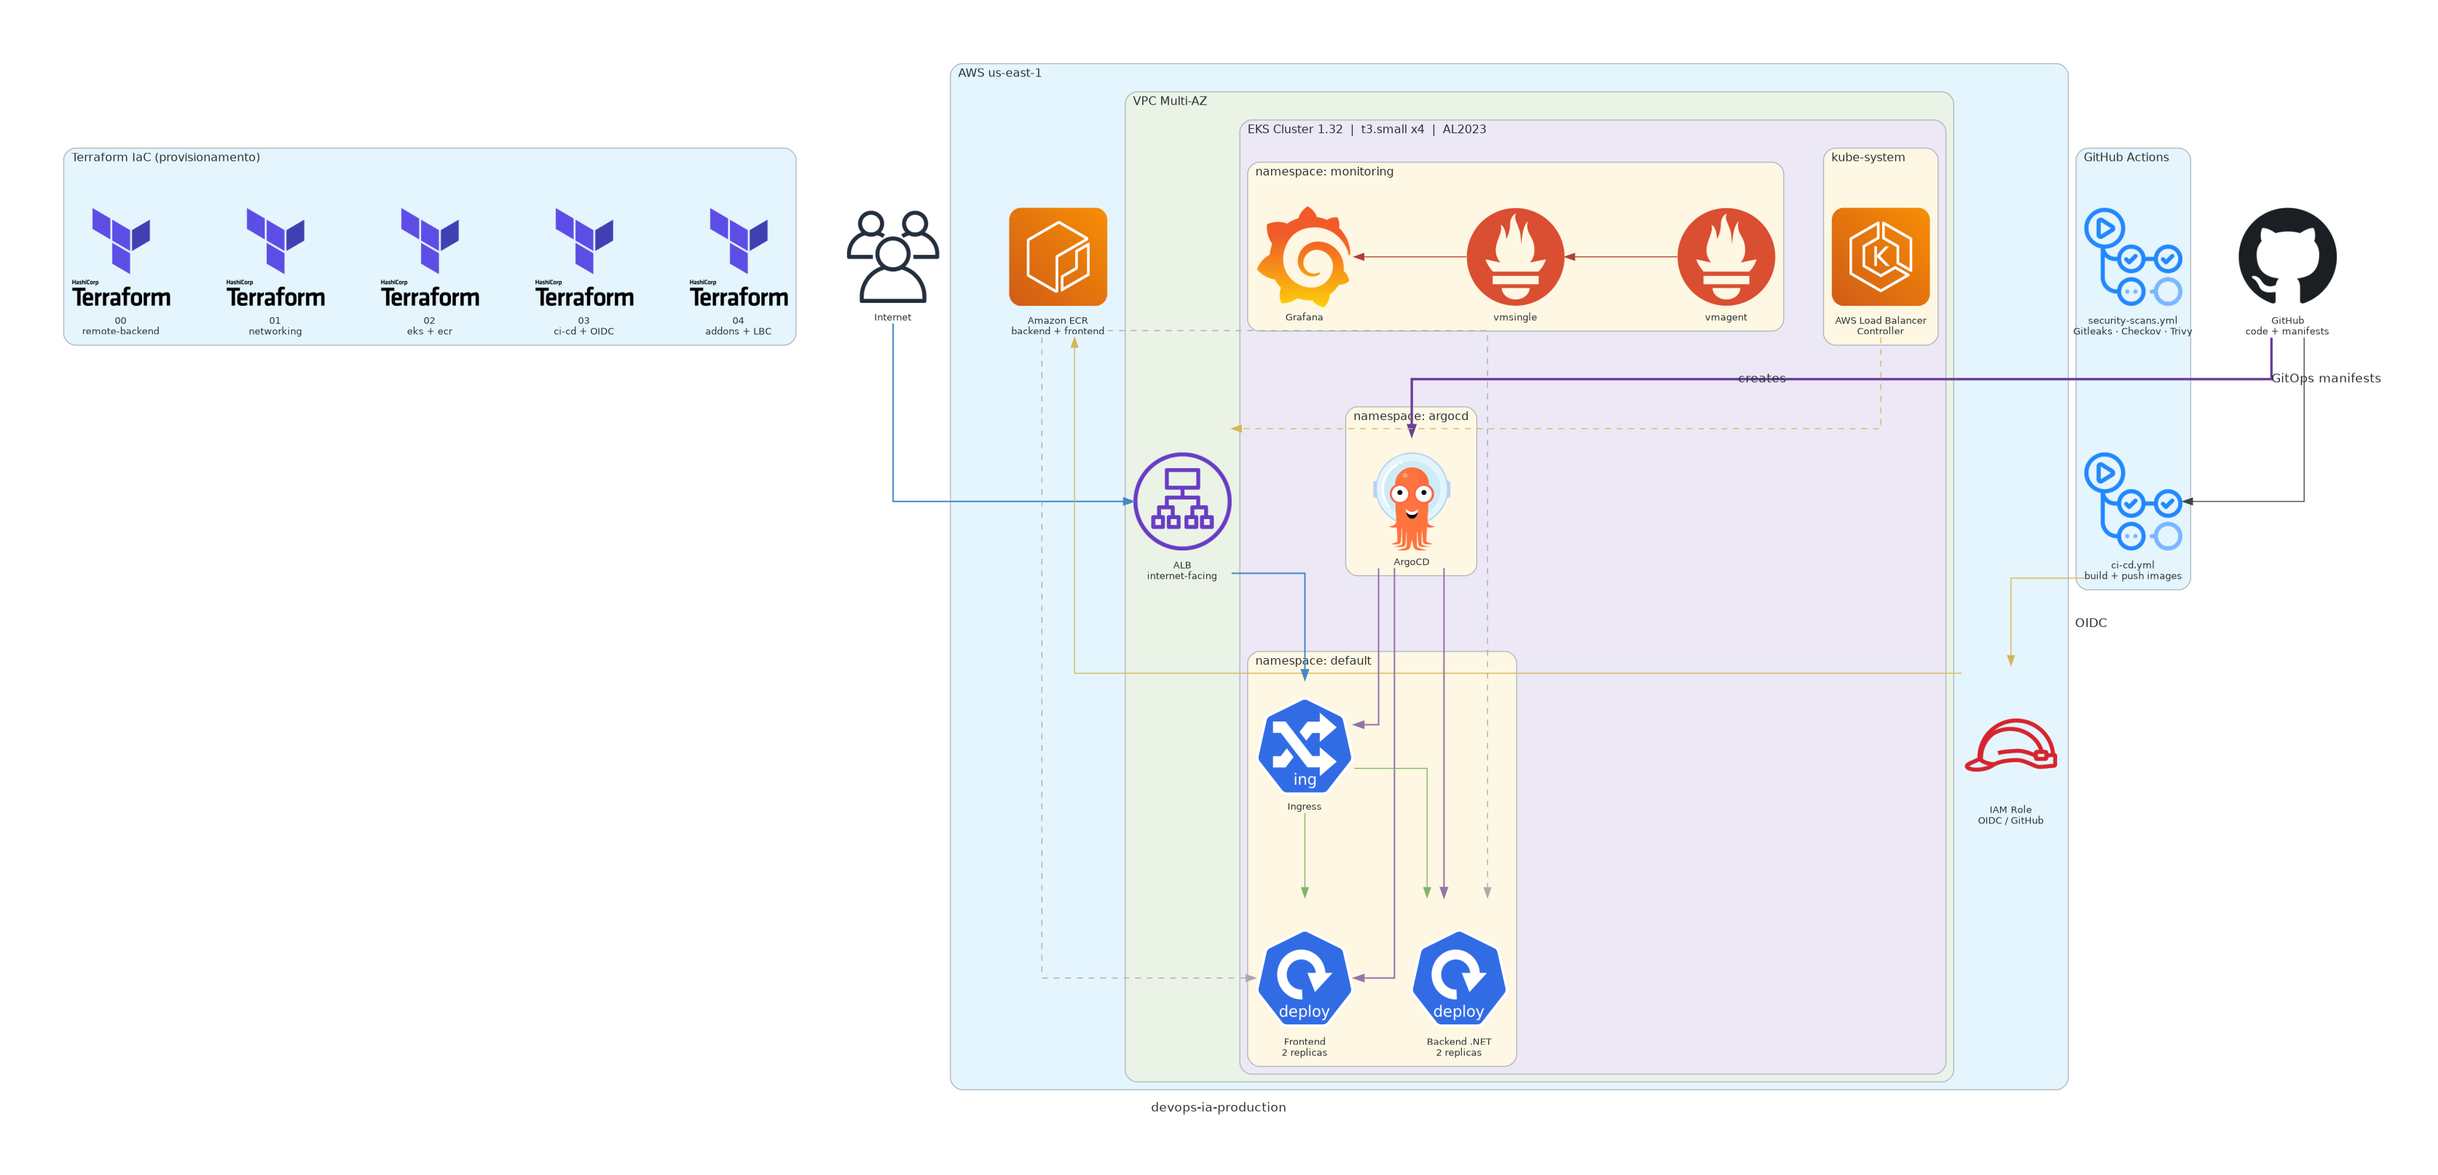
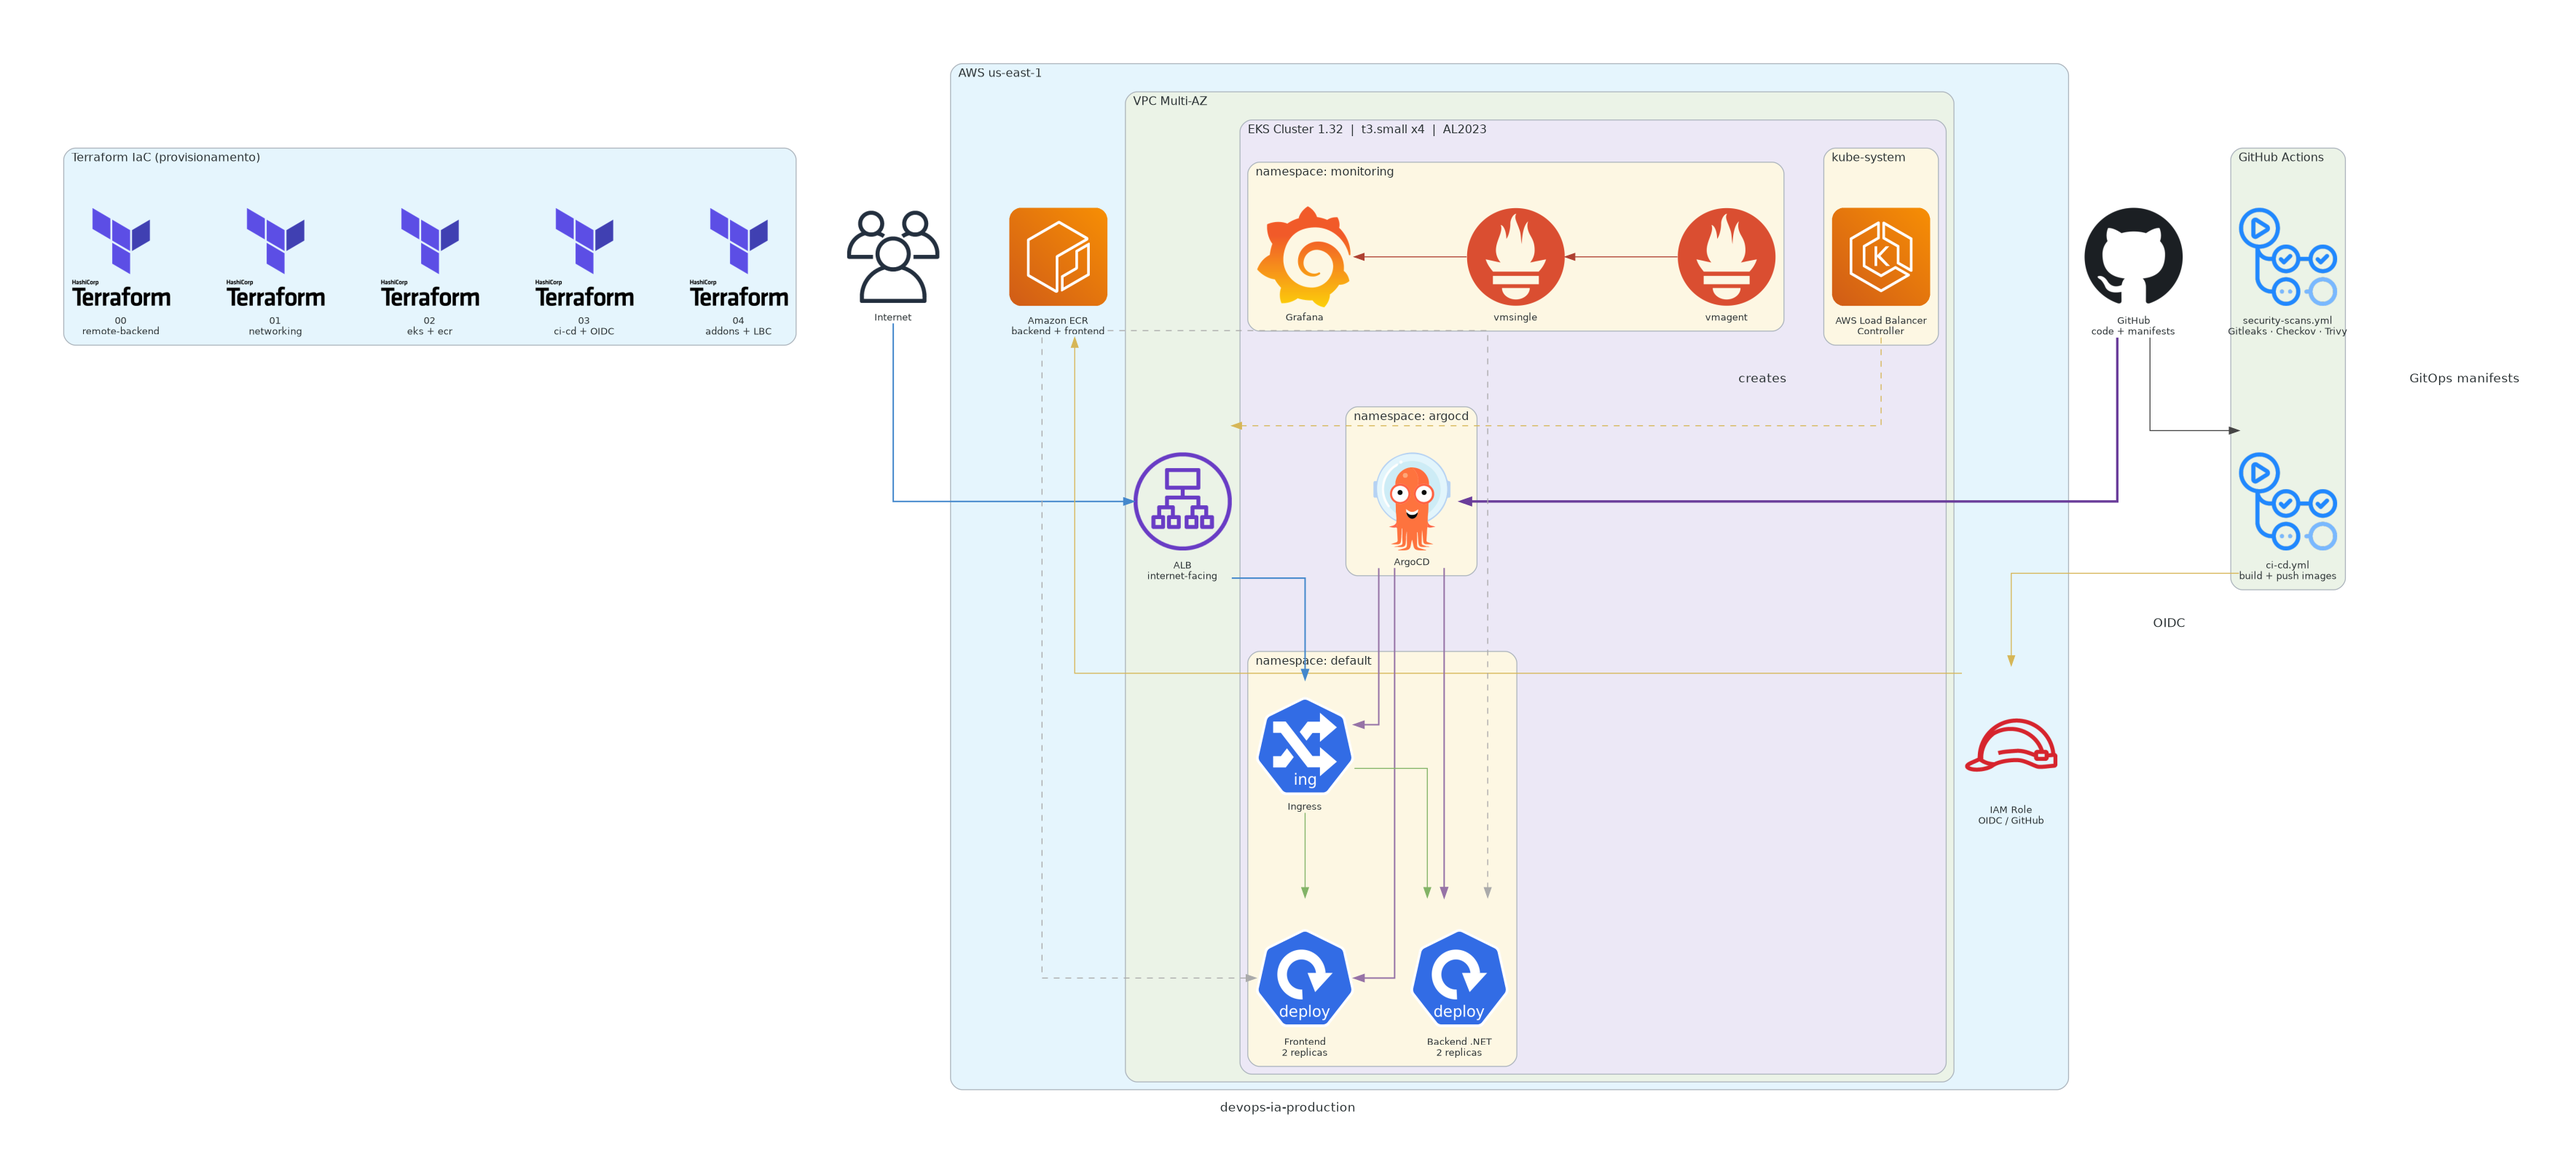
docs: fix GitHub and GitHub Actions left-to-right visual order
Wrapped both nodes in an invisible parent cluster with rankdir=LR so
graphviz respects the GitHub -> GitHub Actions reading order. Previously
the edge between them was interpreted as a vertical TB constraint,
placing them in the wrong horizontal order.

diff --git a/docs/architecture/generate_diagram.py b/docs/architecture/generate_diagram.py
@@ -56,12 +56,16 @@ with Diagram(
     # ── Internet (fora da AWS — entidade externa) ──────────────────────────────
     users = Users("Internet")
 
-    # ── Source of truth + CI/CD ───────────────────────────────────────────────
-    repo = Github("GitHub\ncode + manifests")
-
-    with Cluster("GitHub Actions"):
-        cicd = GithubActions("ci-cd.yml\nbuild + push images")
-        sec  = GithubActions("security-scans.yml\nGitleaks · Checkov · Trivy")
+    # ── GitHub + GitHub Actions em cluster pai com rankdir=LR para garantir
+    #    que GitHub apareça à esquerda de GitHub Actions no layout final. ─────
+    with Cluster(
+        "Source + CI/CD",
+        graph_attr={"rankdir": "LR", "style": "invis"},
+    ):
+        repo = Github("GitHub\ncode + manifests")
+        with Cluster("GitHub Actions"):
+            cicd = GithubActions("ci-cd.yml\nbuild + push images")
+            sec  = GithubActions("security-scans.yml\nGitleaks · Checkov · Trivy")
 
     # ── AWS ───────────────────────────────────────────────────────────────────
     with Cluster("AWS us-east-1"):
